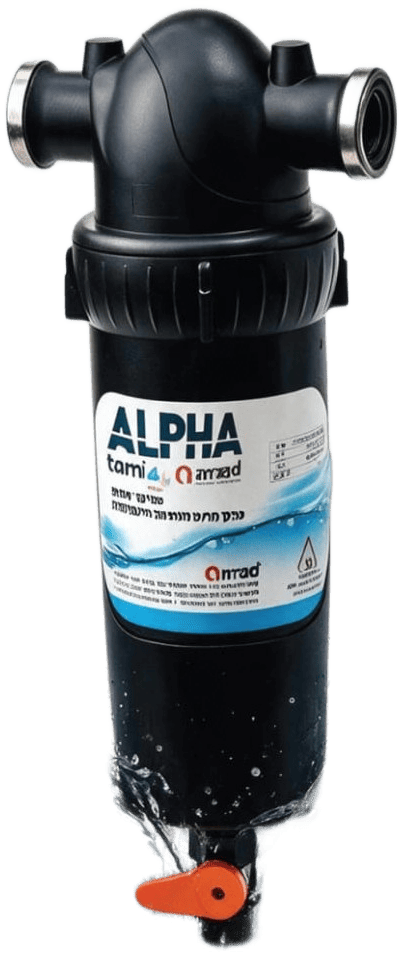
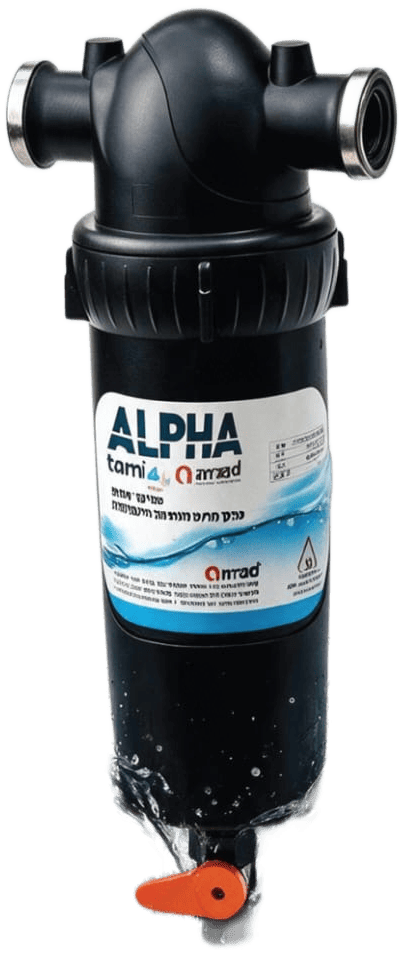
Fix product images: show clear/white filter products as clean photos on light background (two-stage, combined), clean Alpha, tint card bg

diff --git a/src/App.css b/src/App.css
@@ -404,7 +404,7 @@ a.line:hover { color: #7fd4f5; }
 .model-card:hover { transform: translateY(-6px); box-shadow: var(--shadow); border-color: var(--c-primary-soft-2); }
 .model-media {
   position: relative; height: 300px; padding: 22px; overflow: hidden;
-  background: radial-gradient(circle at 50% 38%, #fff, var(--c-primary-soft));
+  background: #e7eff7;
   display: grid; place-items: center;
 }
 .model-media img { max-height: 256px; max-width: 100%; width: auto; object-fit: contain; filter: drop-shadow(0 12px 18px rgba(10,60,90,.18)); }
